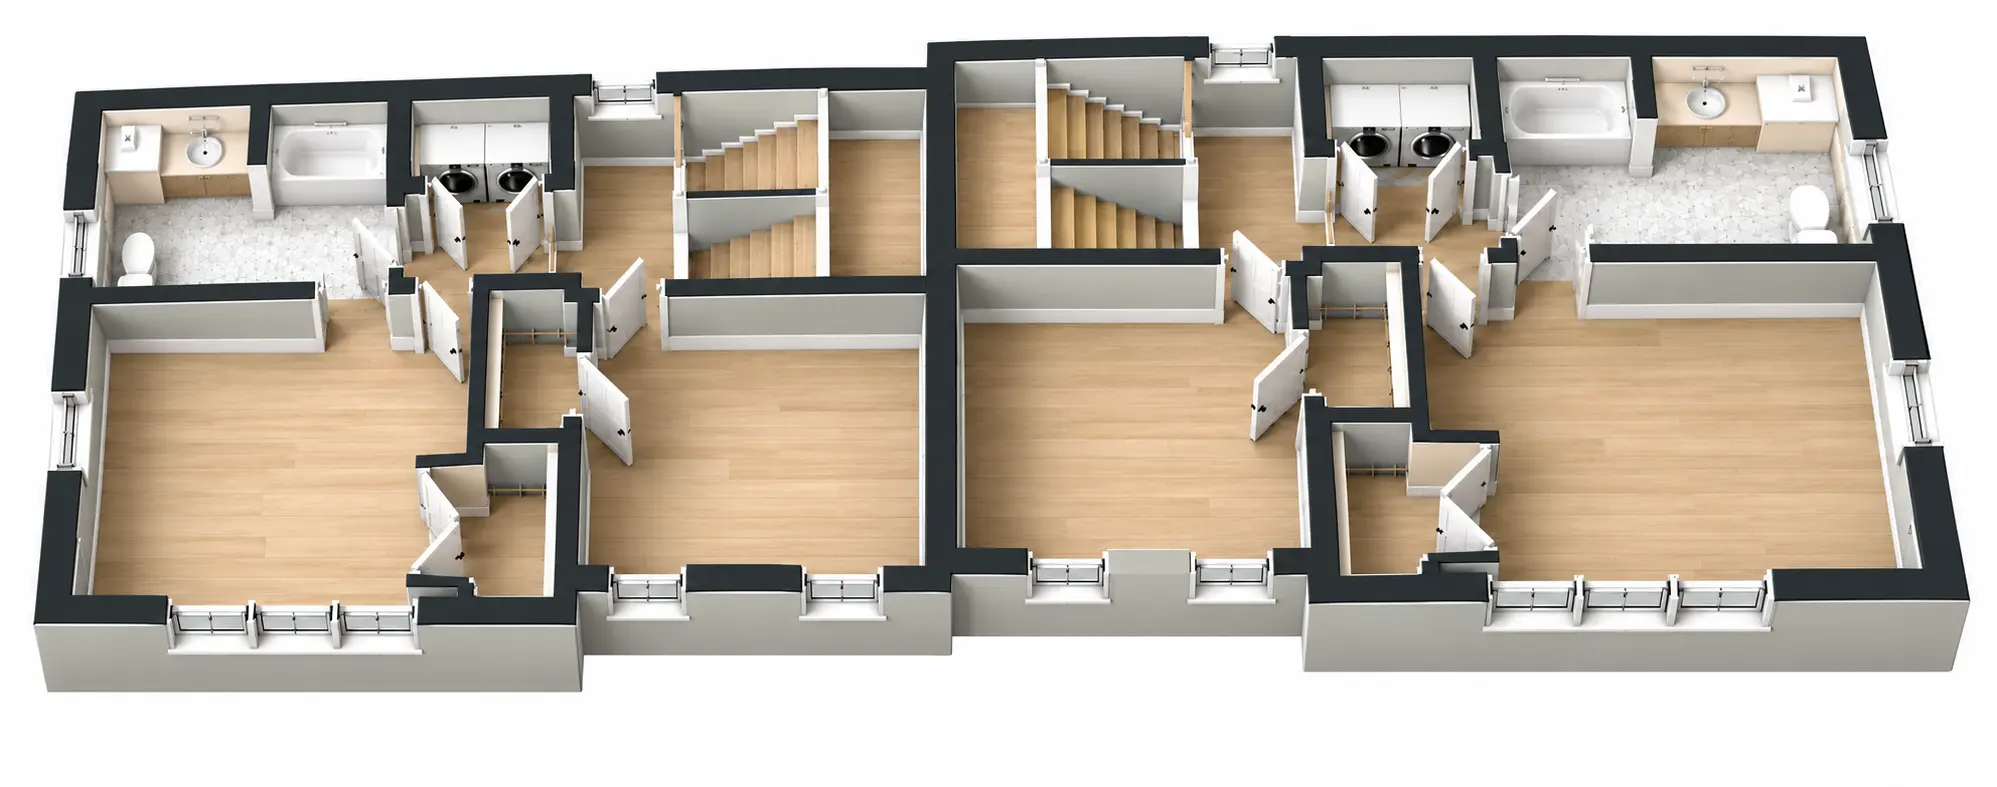
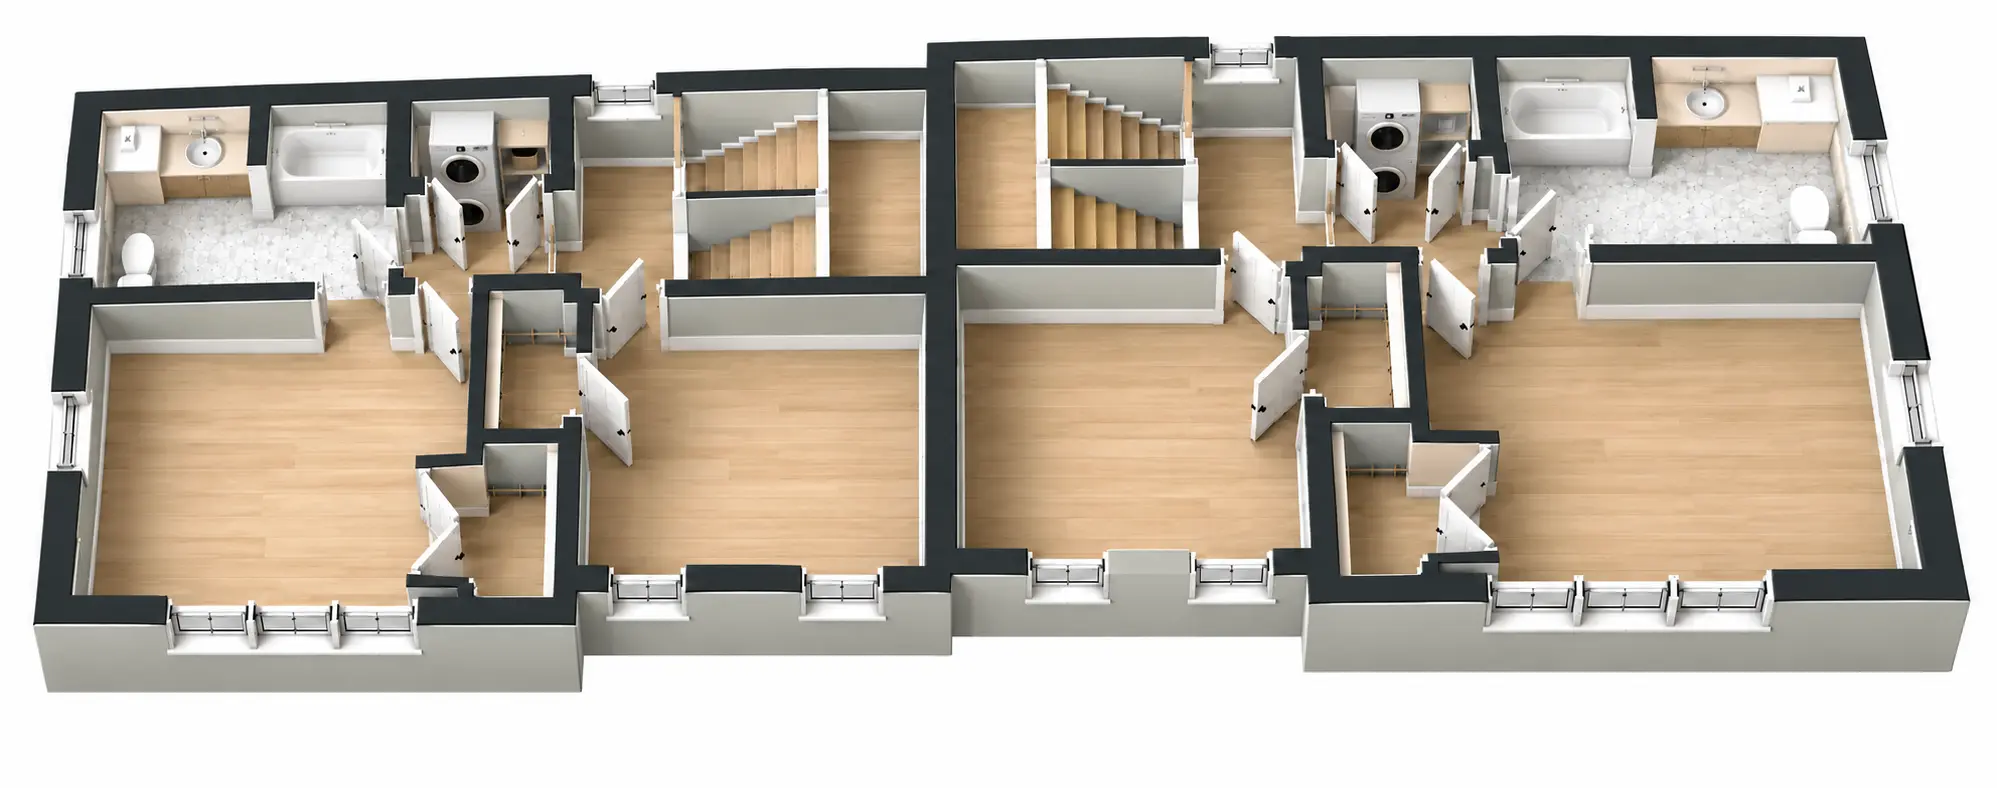
stack

diff --git a/index.html b/index.html
@@ -35,8 +35,8 @@
     "addressCountry": "US"
   },
   "containsPlace": [
-    {"@type": "Accommodation", "name": "Residence 1", "numberOfBedrooms": 3, "numberOfBathroomsTotal": 2.5, "floorSize": {"@type": "QuantitativeValue", "minValue": 1603, "unitCode": "FTK"}},
-    {"@type": "Accommodation", "name": "Residence 2", "numberOfBedrooms": 3, "numberOfBathroomsTotal": 2.5, "floorSize": {"@type": "QuantitativeValue", "minValue": 1603, "unitCode": "FTK"}}
+    {"@type": "Accommodation", "name": "Residence 1", "numberOfBedrooms": 3, "numberOfBathroomsTotal": 2.5, "floorSize": {"@type": "QuantitativeValue", "value": 1754, "unitCode": "FTK"}},
+    {"@type": "Accommodation", "name": "Residence 2", "numberOfBedrooms": 3, "numberOfBathroomsTotal": 2.5, "floorSize": {"@type": "QuantitativeValue", "value": 1754, "unitCode": "FTK"}}
   ]
 }
 </script>
@@ -341,7 +341,7 @@ footer .footer-credit img{height:22px;width:auto;display:block;filter:brightness
       <h2>A New Chapter <em>for Patterson Street</em></h2>
     </div>
     <div class="text">
-      <p>18 Patterson brings two new residences to a residential corner of Dorchester. Each home offers three bedrooms, two and a half baths, and more than 1,603 square feet across three stories.</p>
+      <p>18 Patterson brings two new residences to a residential corner of Dorchester. Each home offers three bedrooms, two and a half baths, and 1,754 square feet across three stories.</p>
       <p>The exterior features durable fiber cement siding, a covered entry, and energy-efficient windows. Inside, wide-plank hardwood floors run throughout, complemented by hardwood stairs, Italian marble tiling, ornate bathroom tilework, and solid-surface kitchen countertops, bringing together practical details and a clean, contemporary aesthetic. Laundry is located on the upper floors, with off-street parking on site.</p>
       <p>Designed by one of Dorchester’s premier designers, the residences bring a fresh, modern feel to Patterson Street.</p>
       <a href="#units" class="btn ghost">Explore the Residences</a>
@@ -371,7 +371,7 @@ footer .footer-credit img{height:22px;width:auto;display:block;filter:brightness
     </header>
     <ul>
       <li>Off-Street Parking<small>Two on-site parking spaces</small></li>
-      <li>Andersen Windows<small>Energy-efficient Low-E glazing</small></li>
+      <li>Quality Windows<small>Energy-efficient windows throughout</small></li>
       <li>Upper-Floor Laundry<small>Conveniently located laundry areas</small></li>
       <li>Wide-Plank Hardwood<small>Wide-plank hardwood floors throughout, with hardwood stairs</small></li>
       <li>Italian Marble Tilework<small>Italian marble tiling and ornate bathroom tilework</small></li>
@@ -393,7 +393,7 @@ footer .footer-credit img{height:22px;width:auto;display:block;filter:brightness
         <li><b>3</b><span>Bedrooms</span></li>
         <li><b>2.5</b><span>Baths</span></li>
         <li><b>3</b><span>Stories</span></li>
-        <li><b>1,603+</b><span>Sq Ft Each</span></li>
+        <li><b>1,754</b><span>Sq Ft Each</span></li>
       </ul>
       <div class="res-links">
         <a href="#contact" class="btn">Inquire Now</a>
